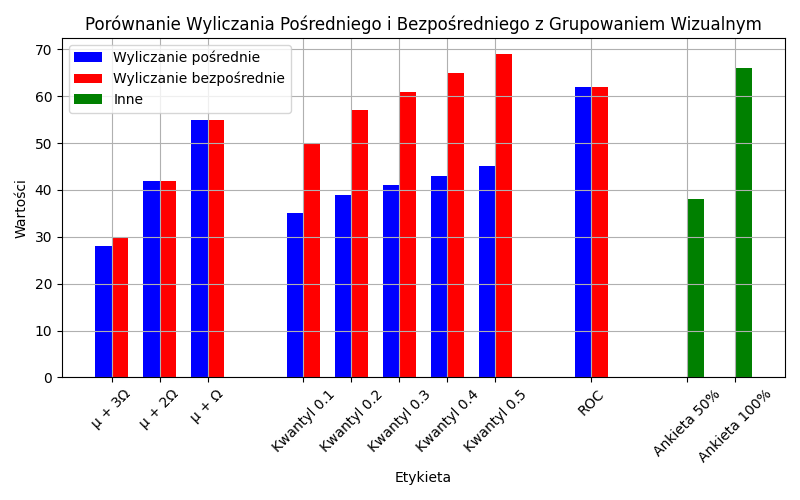
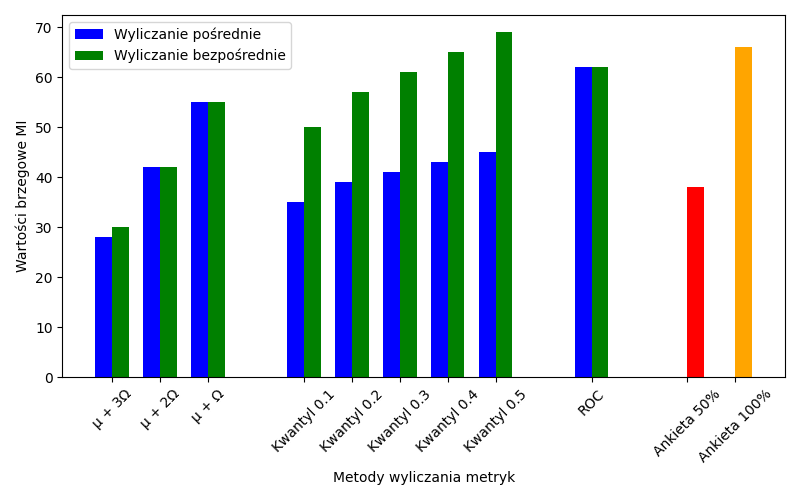
fix for visual representation of results comparison graph part 1

diff --git a/compare_results.py b/compare_results.py
@@ -3,18 +3,18 @@ import matplotlib.pyplot as plt
 import numpy as np
 
 data = """
-Etykieta,Wyliczanie pośrednie,Wyliczanie bezpośrednie,Inne
-\ensuremath{\mu + 3\Omega},28,30,
-\ensuremath{\mu + 2\Omega},42,42,
-\ensuremath{\mu + \Omega},55,55,
-Kwantyl 0.1,35,50,
-Kwantyl 0.2,39,57,
-Kwantyl 0.3,41,61,
-Kwantyl 0.4,43,65,
-Kwantyl 0.5,45,69,
-ROC,62,62,
-Ankieta 50%,,,38
-Ankieta 100%,,,66
+Etykieta,Wyliczanie pośrednie,Wyliczanie bezpośrednie,Ankieta 50%,Ankieta 100%
+\ensuremath{\mu + 3\Omega},28,30,,
+\ensuremath{\mu + 2\Omega},42,42,,
+\ensuremath{\mu + \Omega},55,55,,
+Kwantyl 0.1,35,50,,
+Kwantyl 0.2,39,57,,
+Kwantyl 0.3,41,61,,
+Kwantyl 0.4,43,65,,
+Kwantyl 0.5,45,69,,
+ROC,62,62,,
+Ankieta 50%,,,38,
+Ankieta 100%,,,,66
 """
 
 from io import StringIO
@@ -37,17 +37,16 @@ bar_width = 0.35
 
 fig, ax = plt.subplots(figsize=(8, 5))
 bar1 = ax.bar(index - bar_width/2, df['Wyliczanie pośrednie'], bar_width, label='Wyliczanie pośrednie', color='blue')
-bar2 = ax.bar(index + bar_width/2, df['Wyliczanie bezpośrednie'], bar_width, label='Wyliczanie bezpośrednie', color='red')
-bar3 = ax.bar(index + bar_width/2, df['Inne'], bar_width, label='Inne', color='green')
+bar2 = ax.bar(index + bar_width/2, df['Wyliczanie bezpośrednie'], bar_width, label='Wyliczanie bezpośrednie', color='green')
+bar3 = ax.bar(index + bar_width/2, df['Ankieta 50%'], bar_width, color='red')
+bar3 = ax.bar(index + bar_width/2, df['Ankieta 100%'], bar_width, color='orange')
 
-ax.set_xlabel('Etykieta')
-ax.set_ylabel('Wartości')
-ax.set_title('Porównanie Wyliczania Pośredniego i Bezpośredniego z Grupowaniem Wizualnym')
+ax.set_xlabel('Metody wyliczania metryk')
+ax.set_ylabel('Wartości brzegowe MI')
 ax.set_xticks(index)
 ax.set_xticklabels(df['Etykieta'])
 ax.legend()
 plt.xticks(rotation=45)
-plt.grid(True)
 plt.tight_layout()
 
 plt.savefig("./plots/plot_result_comparison.png")
